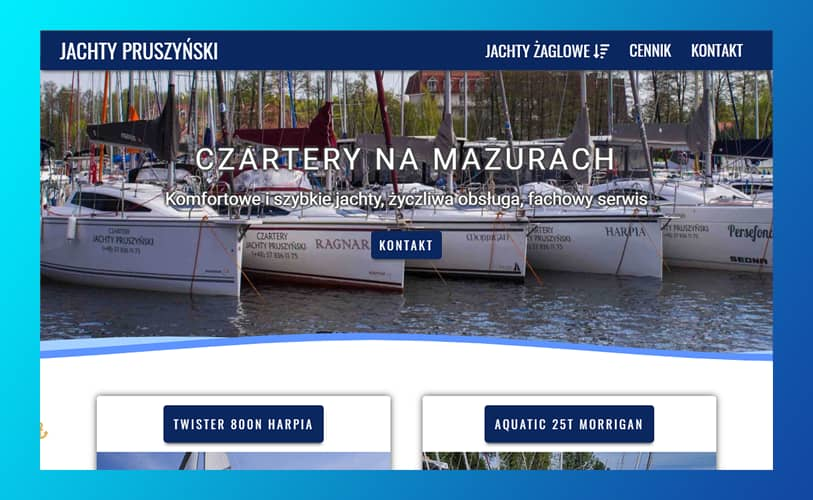
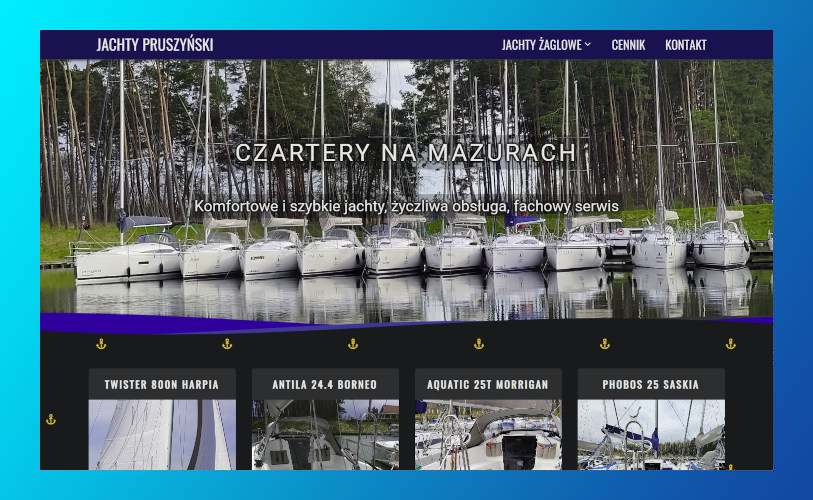
'work' mobilized

diff --git a/src/components/About/Work/Tile.tsx b/src/components/About/Work/Tile.tsx
@@ -1,5 +1,6 @@
 import { FC, ReactNode } from "react"
 import styled from "styled-components"
+import { device } from "../../../theme.ts"
 
 const Tile: FC<{
   src: string
@@ -50,12 +51,16 @@ const Wrapper = styled.article`
   box-shadow: 0 3px 20px rgb(0 0 0 / 20%);
   transition: transform 0.2s ease;
   z-index: 2;
-  max-width: 400px;
+  position: relative;
 
   &:hover {
     transform: scale(1.01);
     box-shadow: 0 4px 20px 3px rgb(0 0 0 / 20%);
     z-index: 2;
+  }
+
+  @media ${device.tablet} {
+    margin: 0;
   }
 `
 
@@ -71,8 +76,21 @@ const Text = styled.div`
   display: flex;
   flex-direction: column;
   justify-content: space-between;
-  padding: 8px 16px 16px 16px;
+  padding: 32px;
   line-height: 1;
+  height: 200px;
+
+  @media ${device.laptop} {
+    padding: 16px;
+  }
+
+  @media ${device.tablet} {
+    height: 160px;
+  }
+
+  @media ${device.mobileL} {
+    height: 180px;
+  }
 `
 
 const Link = styled.a`
@@ -86,33 +104,85 @@ const Description = styled.div`
   text-align: left;
 
   h3 {
-    font-size: ${({ theme }) => theme.fontSize.xl};
+    font-size: ${({ theme }) => theme.fontSize.xl2};
     margin: 0;
     padding: 0 0 16px 0;
+
+    @media ${device.laptopL} {
+      font-size: ${({ theme }) => theme.fontSize.xl};
+    }
+
+    @media ${device.laptop} {
+      font-size: ${({ theme }) => theme.fontSize.l};
+    }
   }
 
   p {
-    font-size: ${({ theme }) => theme.fontSize.m};
+    font-size: ${({ theme }) => theme.fontSize.xl};
     color: ${({ theme }) => theme.color.grey};
     margin: 0;
     padding: 0 0 32px 0;
+
+    @media ${device.laptopL} {
+      font-size: ${({ theme }) => theme.fontSize.l};
+    }
+
+    @media ${device.laptop} {
+      font-size: ${({ theme }) => theme.fontSize.m};
+    }
   }
 `
 
 const Footer = styled.footer`
   display: flex;
   justify-content: space-between;
-  align-items: center;
+  align-items: end;
   padding: 0 0 16px 0;
-`
+  position: absolute;
+  bottom: 16px;
+  width: calc(100% - 60px);
 
-const Stack = styled.div`
-  img {
-    width: 30px;
-    height: 30px;
+  @media ${device.laptop} {
+    flex-direction: column;
+    width: calc(100% - 30px);
+    padding: 0;
   }
 `
 
-const GithubLink = styled.div``
+const Stack = styled.div`
+  text-align: left;
+
+  @media ${device.laptop} {
+    margin: 0 auto;
+  }
+
+  img {
+    width: 32px;
+    height: 32px;
+
+    @media ${device.laptopL} {
+      width: 26px;
+      height: 26px;
+    }
+
+    @media ${device.mobileL} {
+      width: 20px;
+      height: 20px;
+    }
+  }
+`
+
+const GithubLink = styled.div`
+  font-size: ${({ theme }) => theme.fontSize.xl};
+
+  @media ${device.laptopL} {
+    font-size: ${({ theme }) => theme.fontSize.m};
+  }
+
+  @media ${device.laptop} {
+    margin: 0 auto;
+    padding: 16px 0 0 0;
+  }
+`
 
 export default Tile

diff --git a/src/components/About/Skills/Skills.tsx b/src/components/About/Skills/Skills.tsx
@@ -88,25 +88,19 @@ const TilesWrapper = styled.div`
   div {
     display: grid;
     grid-template-columns: repeat(auto-fill, minmax(85px, 1fr));
-    grid-column-gap: 10px;
     column-gap: 10px;
-    grid-row-gap: 10px;
     row-gap: 10px;
     white-space: nowrap;
 
     @media ${device.laptopL} {
       grid-template-columns: repeat(auto-fill, minmax(75px, 1fr));
-      grid-column-gap: 5px;
       column-gap: 5px;
-      grid-row-gap: 5px;
       row-gap: 5px;
     }
 
     @media ${device.tablet} {
       grid-template-columns: repeat(auto-fill, minmax(70px, 1fr));
-      grid-column-gap: 5px;
       column-gap: 5px;
-      grid-row-gap: 5px;
       row-gap: 5px;
     }
   }

diff --git a/src/components/About/Work/Work.tsx b/src/components/About/Work/Work.tsx
@@ -153,13 +153,20 @@ const StyledElement = styled(Element)`
 
 const Wrapper = styled.div`
   display: grid;
-  grid-template-columns: repeat(auto-fill, minmax(400px, 1fr));
-  grid-column-gap: 15px;
+  grid-template-columns: 1fr 1fr 1fr;
   column-gap: 15px;
-  grid-row-gap: 15px;
   row-gap: 15px;
-  max-width: 900px;
-  margin: 0 auto;
+
+  @media ${device.desktop} {
+    grid-template-columns: 1fr 1fr;
+    column-gap: 5px;
+    row-gap: 5px;
+  }
+
+  @media ${device.tablet} {
+    grid-template-columns: 1fr;
+    row-gap: 32px;
+  }
 `
 
 export default Work
